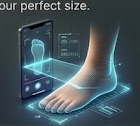
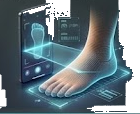
fix: make AI container images background-less, remove extra text, and change subtitle text to cream

diff --git a/frontend/src/pages/HomePage.tsx b/frontend/src/pages/HomePage.tsx
@@ -279,7 +279,7 @@ export const HomePage: React.FC = () => {
                   <h2 className="text-white font-extrabold text-sm sm:text-base tracking-wider uppercase drop-shadow-sm group-hover:text-cyan-200 transition-colors">
                     AI SIZE FINDER
                   </h2>
-                  <p className="text-[11px] sm:text-xs text-slate-200 leading-snug">
+                  <p className="text-[11px] sm:text-xs text-[#F5EEDB] font-medium leading-snug drop-shadow-xs">
                     Take a picture of your foot to find your perfect size.
                   </p>
                 </div>
@@ -302,7 +302,7 @@ export const HomePage: React.FC = () => {
                   <h2 className="text-white font-extrabold text-sm sm:text-base tracking-wider uppercase drop-shadow-sm group-hover:text-cyan-200 transition-colors">
                     AI OUTFIT MATCHER
                   </h2>
-                  <p className="text-[11px] sm:text-xs text-slate-200 leading-snug">
+                  <p className="text-[11px] sm:text-xs text-[#F5EEDB] font-medium leading-snug drop-shadow-xs">
                     Upload your outfit to find matching Peshawari Chappals.
                   </p>
                 </div>
